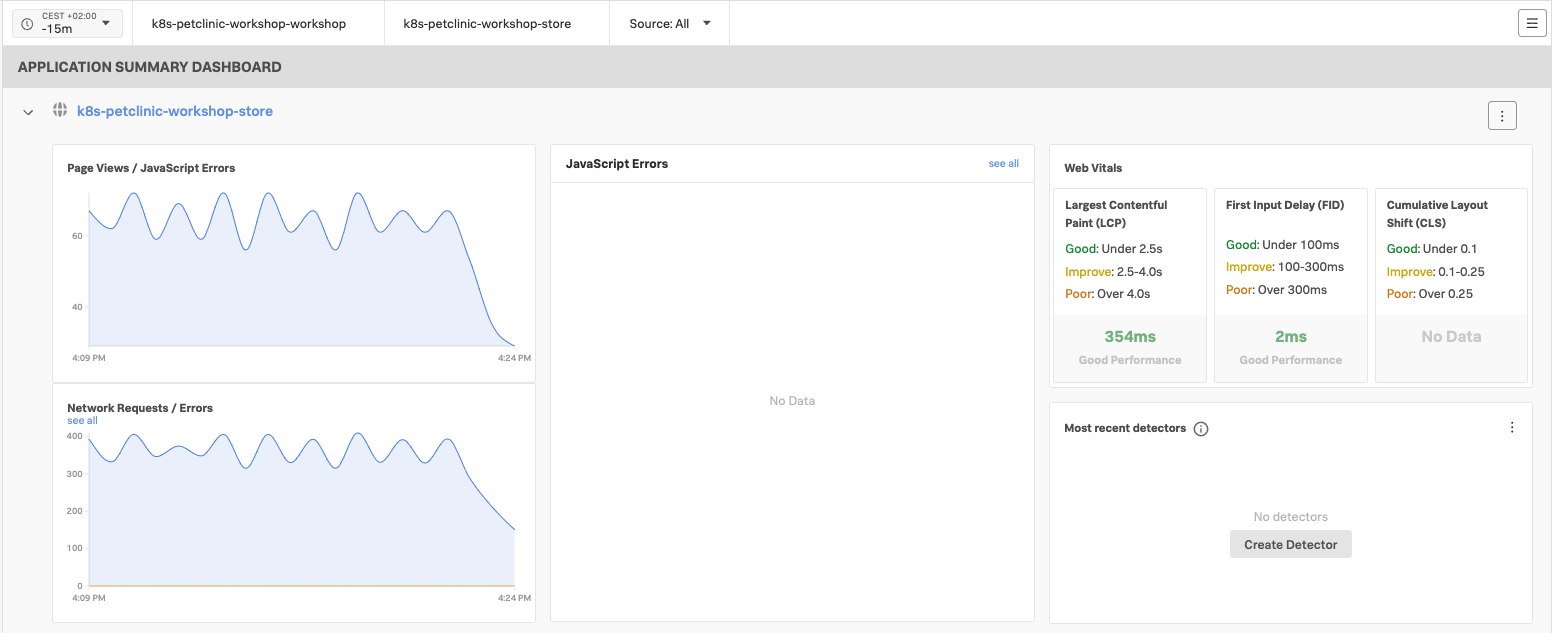
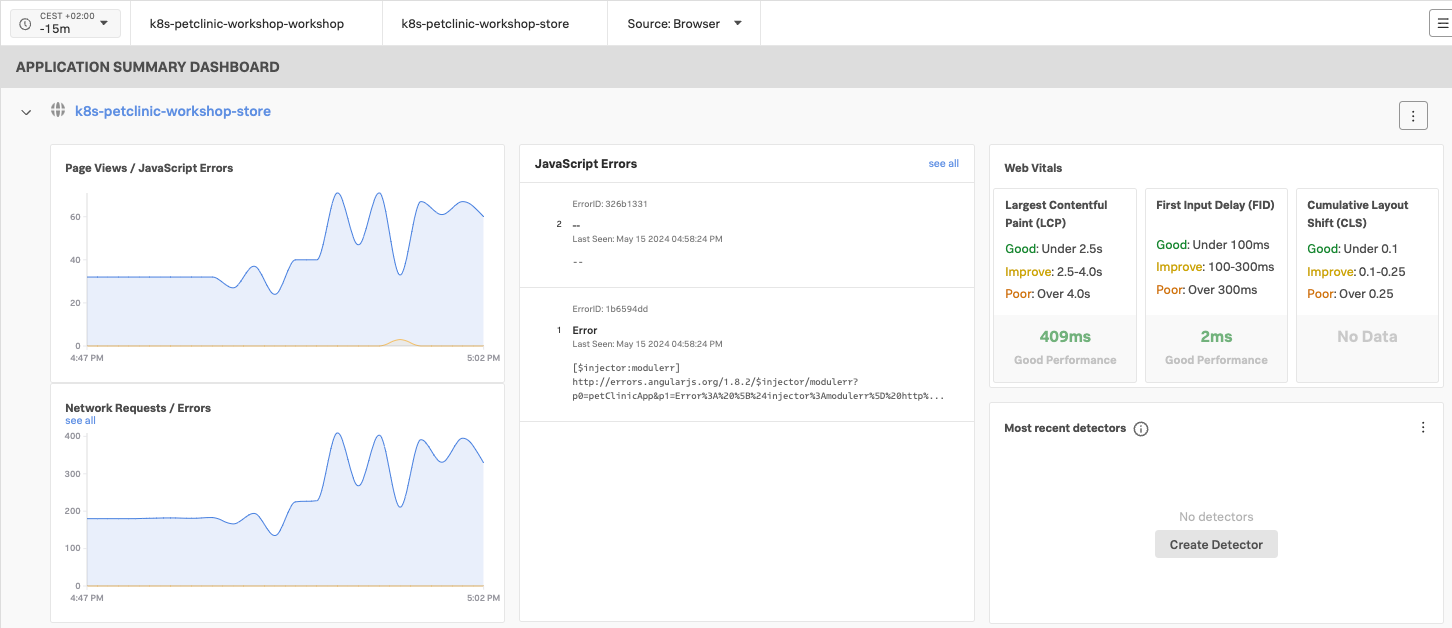
tour 1 done

diff --git a/content/en/conf24/1-zero-config-k8s/8-rum/2-rum-tour-1.md b/content/en/conf24/1-zero-config-k8s/8-rum/2-rum-tour-1.md
@@ -12,12 +12,14 @@ Then change the **App** **(2)** dropdown box to the name of your app, it will be
 
 ![rum select](../../images/rum-env-select.png)
 
-Once you have selected your **Environment** and **App**, you will see an overview page showing the RUM status of your App (if your Summary Dashboard is just a single row of numbers, you are looking at the condensed view. You can expand it by clicking on the **>** in front of the Application name) A deliberate JavaScript error was added to the HTML page to demonstrate that they get caught.
+Once you have selected your **Environment** and **App**, you will see an overview page showing the RUM status of your App (if your Summary Dashboard is just a single row of numbers, you are looking at the condensed view. You can expand it by clicking on the **>** in front of the Application name). If any JavaScript error occurred they will show up as shown below:
 
 ![rum overview](../../images/rum-overview.png)
 
-To continue, click on the blue link to get to the details page, This will bring up a new dashboard view breaking down the interactions by UX Metrics, Front-end Health, Back-end Health and Custom Events and comparing them to historic metrics (1 hour by default).
+To continue, click on the blue link (with your workshop name) to get to the details page, this will bring up a new dashboard view breaking down the interactions by UX Metrics, Front-end Health, Back-end Health and Custom Events and comparing them to historic metrics (1 hour by default).
 
 ![rum  main](../../images/rum-main.png)
+Normally you have only one line inside the first chart,  Click on the link that relates to your Petclinic shop, 
+http://198.19.249.62 in our example:
 
-To continue our  High level tour click on  
+This will bring us to the Tag Spotlight page

diff --git a/content/en/conf24/1-zero-config-k8s/8-rum/1-rebuild-app.md b/content/en/conf24/1-zero-config-k8s/8-rum/1-rebuild-app.md
@@ -26,7 +26,7 @@ JavaScript file generated at: /home/splunk/spring-petclinic-microservices/spring
 {{% /tab %}}
 {{< /tabs >}}
 
-Verify if the `env.js` has been created correctly and note the JavaScript Error snippet:
+Verify if the `env.js` has been created correctly:
 
 {{< tabs >}}
 {{% tab title="cat env.js" %}}
@@ -45,11 +45,7 @@ cat ~/spring-petclinic-microservices/spring-petclinic-api-gateway/src/main/resou
   RUM_APP_NAME: 'k8s-petclinic-workshop-store',
   RUM_ENVIRONMENT: 'k8s-petclinic-workshop-workshop'
 }
-// non critical error so it shows in RUM when the realm is set
-if (env.RUM_REALM != "") {
-    let showJSErrorObject = false;
-    showJSErrorObject.property = 'true';
-}
+
 ```
 
 {{% /tab %}}

diff --git a/content/en/conf24/1-zero-config-k8s/8-rum/3-rum-tour-2.md b/content/en/conf24/1-zero-config-k8s/8-rum/3-rum-tour-2.md
@@ -1,5 +1,5 @@
 ---
-title: RUM trace  Waterfall view & linking to APM 
+title: RUM trace Waterfall view & linking to APM 
 linkTitle: 2. Follow RUM Traces
 weight: 3
 ---
